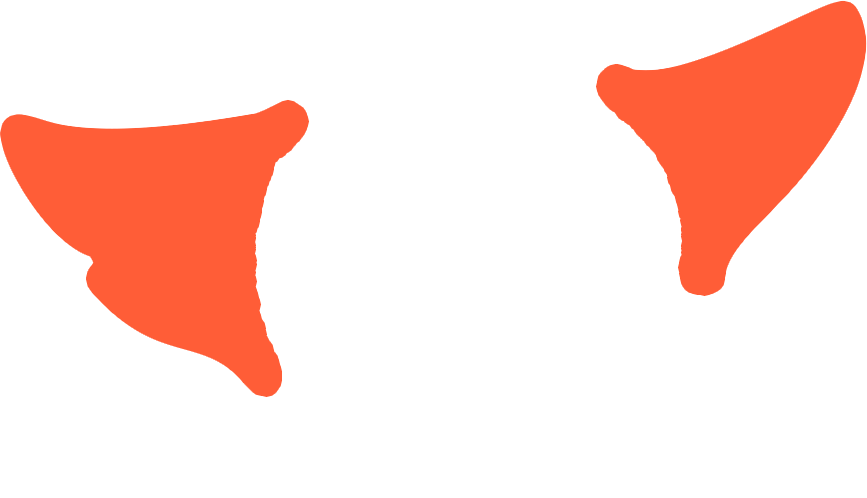
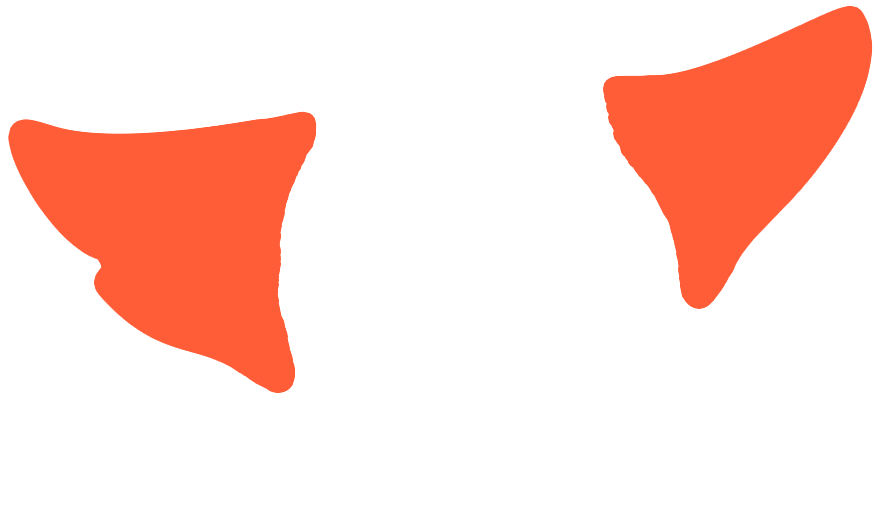
cat layers updated, whiskers added

diff --git a/index.htm b/index.htm
@@ -19,7 +19,7 @@
             <div id="poster-container">
                 <div id="cat-container">
                     <div id="cat-back" style="position: absolute; width: 100%; height: 100%;">
-                        <div style="position: absolute;" class="layer" maxmovement="4" speed="2" inverse="true">
+                        <div style="position: absolute;" class="layer" maxmovement="3" speed="3" inverse="true">
                             <img src="./assets/cat/EARS_LAYER_OUTLINE.webp" style="width: 100%; height: auto;">
                             <label style="position: absolute"></label>
                         </div>
@@ -29,7 +29,7 @@
                         </div>
                     </div>
                     <div id="cat-front" style="position: absolute; width: 100%; height: 100%;">
-                        <div style="position: absolute;" class="layer" maxmovement="4" speed="2" inverse="true">
+                        <div style="position: absolute;" class="layer" maxmovement="3" speed="3" inverse="true">
                             <img src="./assets/cat/EARS_LAYER.webp" style="width: 100%; height: auto;">
                             <label style="position: absolute"></label>
                         </div>
@@ -39,6 +39,10 @@
                         </div>
                         <div style="position: absolute;" class="layer" maxmovement="1" speed="1" inverse="false">
                             <img src="./assets/cat/EYES_LAYER.webp" style="width: 100%; height: auto;">
+                            <label style="position: absolute"></label>
+                        </div>
+                        <div style="position: absolute;" class="layer" maxmovement="1" speed="1" inverse="false">
+                            <img src="./assets/cat/WHISKERS_LAYER.webp" style="width: 100%; height: auto;">
                             <label style="position: absolute"></label>
                         </div>
                         <div style="position: absolute;" class="layer" maxmovement="2" speed="2" inverse="false">
